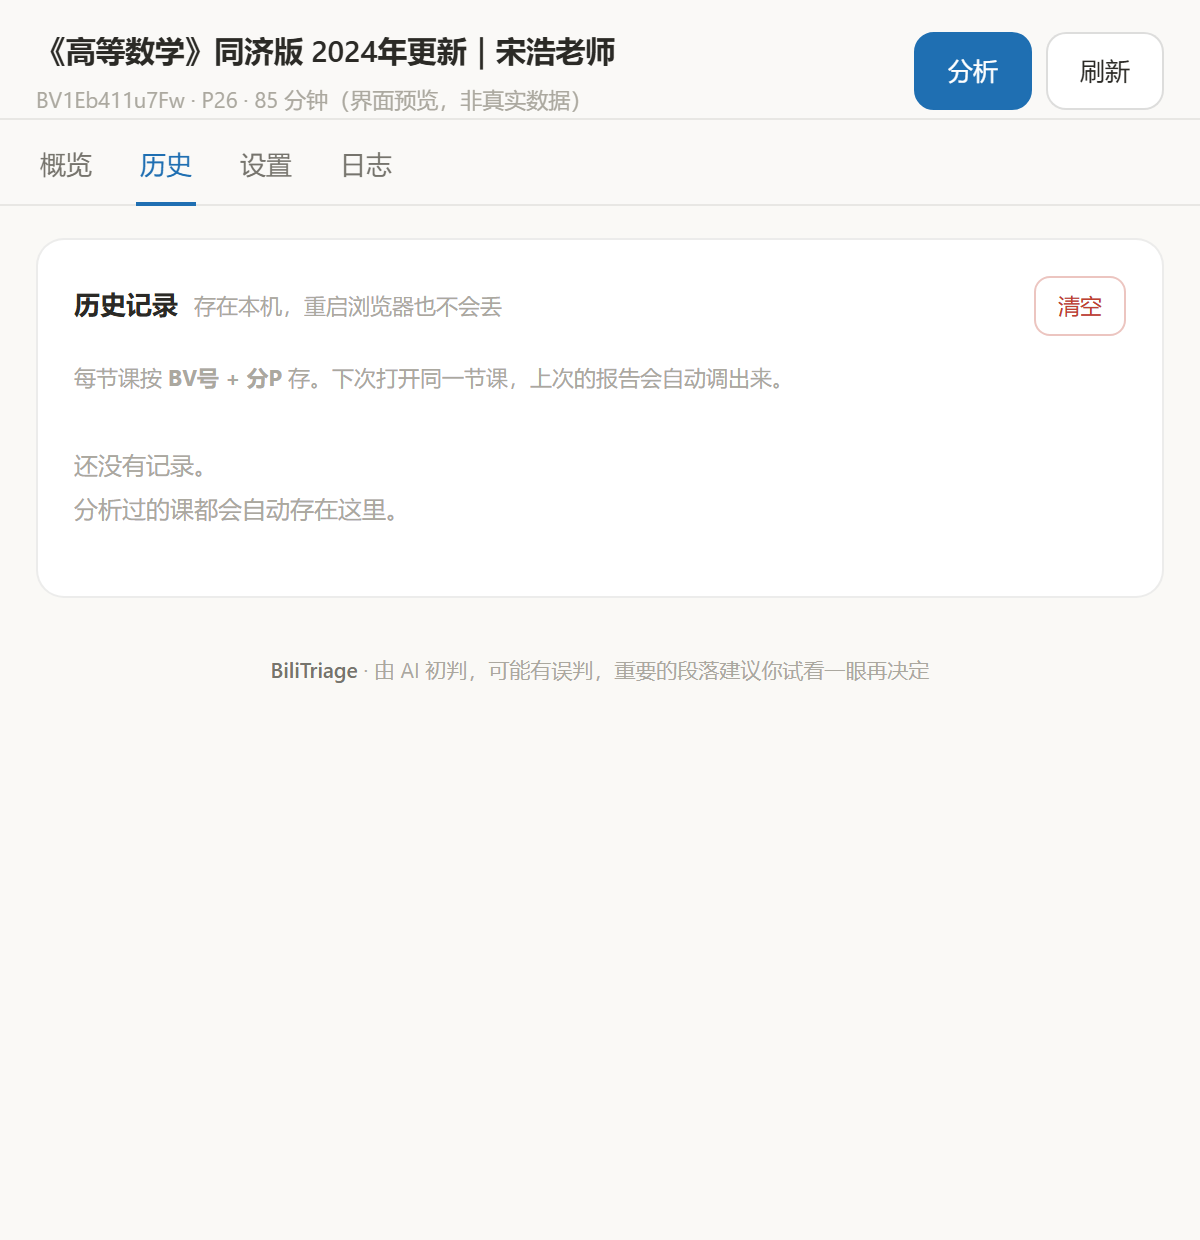
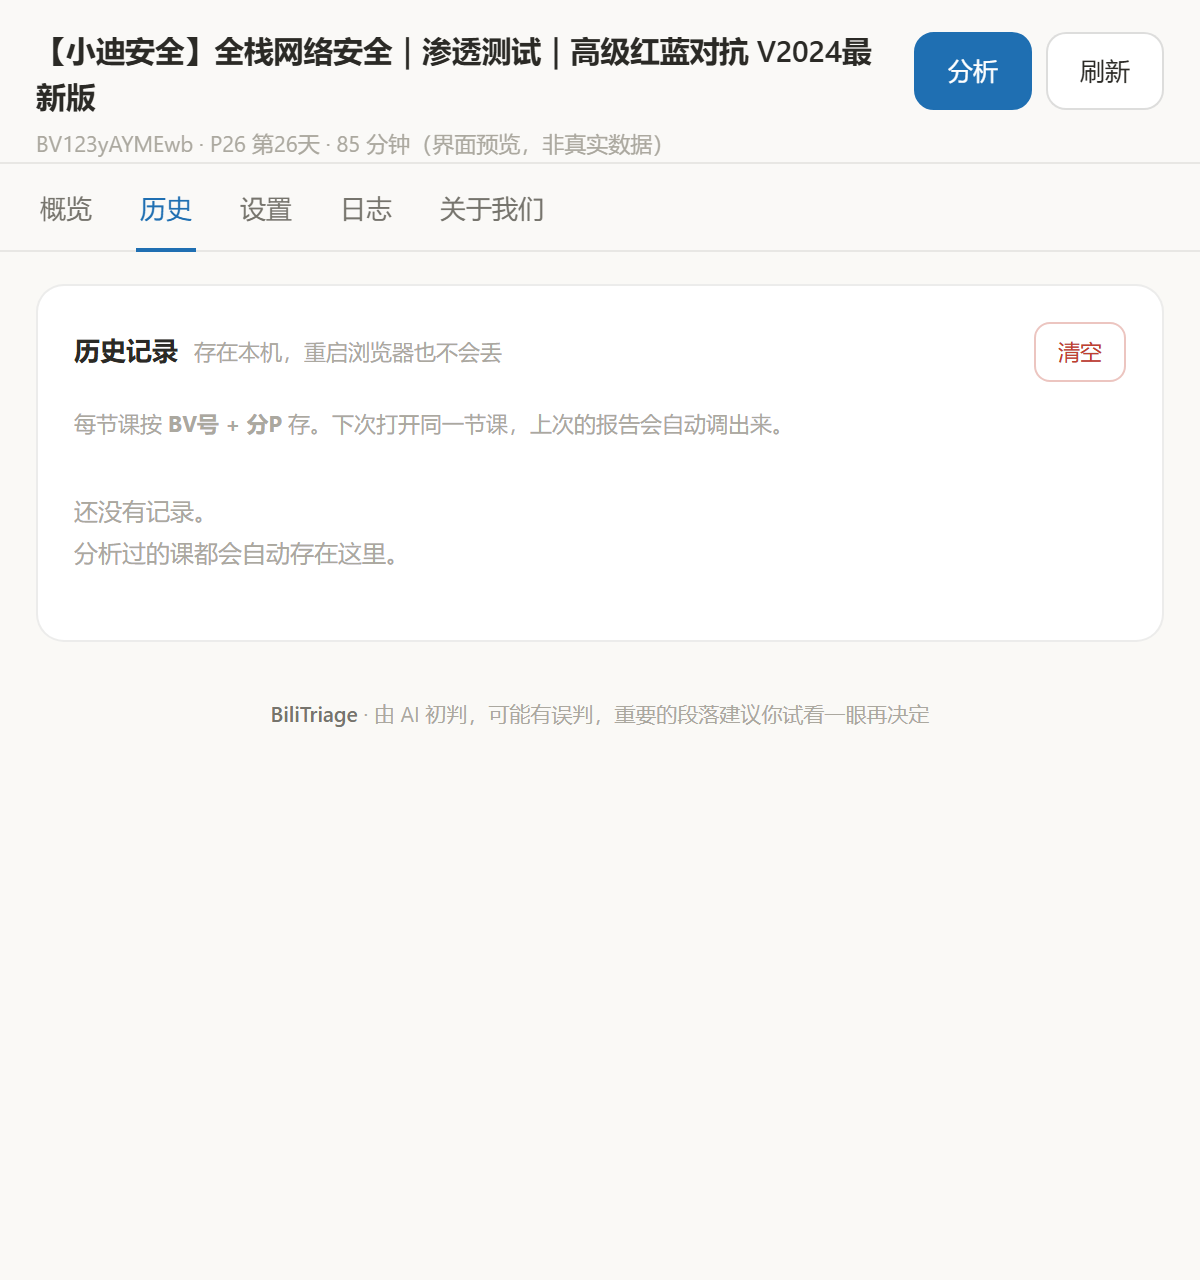
fix(preview): 离线预览的标题改回真实素材（原误用早期测试视频）
离线预览（非扩展环境打开 popup.html）里的标题写死成
「《高等数学》同济版 2024年更新｜宋浩老师 BV1Eb411u7Fw」——
那是我最早做接口验证时用的视频，但预览数据其实一直是小迪安全 P26 的，
标题与数据对不上，看的人会以为取错了视频。

- 标题改为「【小迪安全】全栈网络安全｜渗透测试｜高级红蓝对抗 V2024最新版」
- 副标题改为 BV123yAYMEwb · P26 第26天 · 85 分钟（界面预览，非真实数据）
- 结论文案里的「21 分钟」改为与统计格一致的「约 46 分钟」（旧数字是手写报告的错误值）
- 重新生成 docs/ 三张界面截图

diff --git a/popup.js b/popup.js
@@ -790,7 +790,7 @@ $("clearHist").onclick = async () => {
 
 // ---------------------------------------------------------------- 启动
 const MOCK = {
-  verdict: { one_line: "讲透「模板=代码执行入口」和「第三方组件版本就是攻击面」两条结论。", worth: "精看", reason: "真正值得投入的是 41:31–45:27 与 53:46–70:22 两段共约 21 分钟；前 41 分钟是建表、找文件的试错过程，可跳过。" },
+  verdict: { one_line: "讲透「模板=代码执行入口」和「第三方组件版本就是攻击面」两条结论。", worth: "精看", reason: "值得投入的是约 46 分钟，其中 41:31–45:27、53:46–70:22 两段是核心结论；前面建表、反复找文件的试错可以直接跳过。" },
   segments: [
     { start: 0, end: 125, topic: "开场：本节三条主线", density: "高", type: "干货", action: "精看", star: 2, note: "听完就知道全节结构" },
     { start: 125, end: 365, topic: "建表并插入测试数据", density: "低", type: "试错", action: "跳过", star: 1, note: "纯鼠标操作，无信息量" },
@@ -833,9 +833,9 @@ const MOCK = {
 
 (async function init() {
   if (!IS_EXT) {
-    $("vtitle").textContent = "《高等数学》同济版 2024年更新｜宋浩老师";
-    $("vsub").textContent = "BV1Eb411u7Fw · P26 · 85 分钟（界面预览，非真实数据）";
-    OWNER = { bvid: "BV1Eb411u7Fw", p: 26 };
+    $("vtitle").textContent = "【小迪安全】全栈网络安全｜渗透测试｜高级红蓝对抗 V2024最新版";
+    $("vsub").textContent = "BV123yAYMEwb · P26 第26天 · 85 分钟（界面预览，非真实数据）";
+    OWNER = { bvid: "BV123yAYMEwb", p: 26 };
     render(normalize(MOCK, 5104));
     showTab("overview");
     return;
